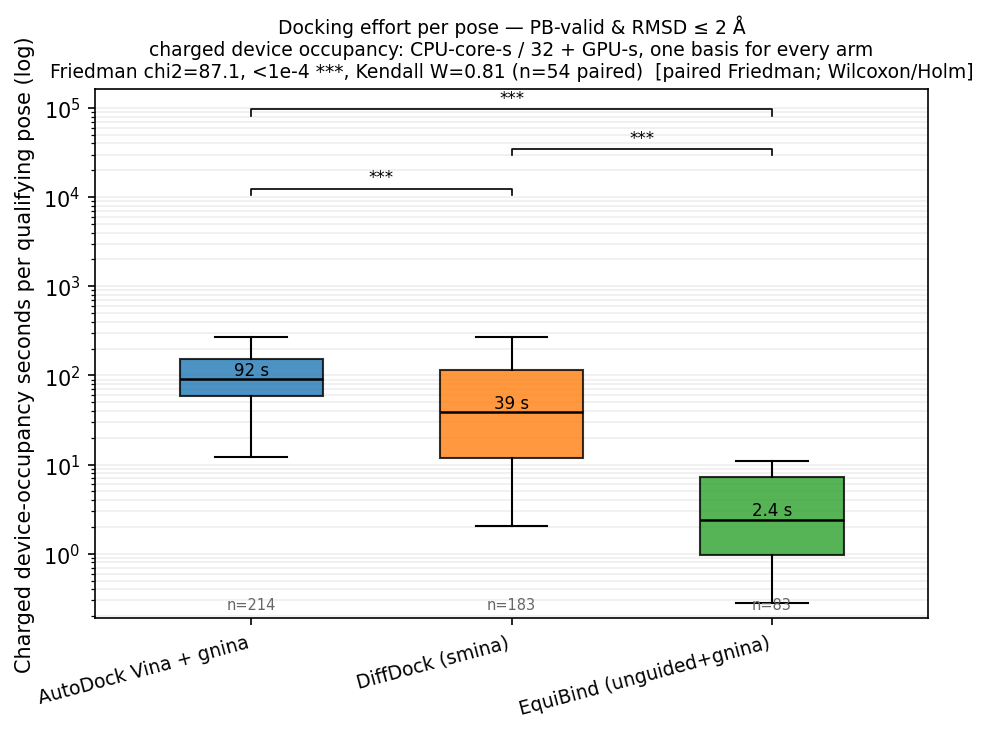
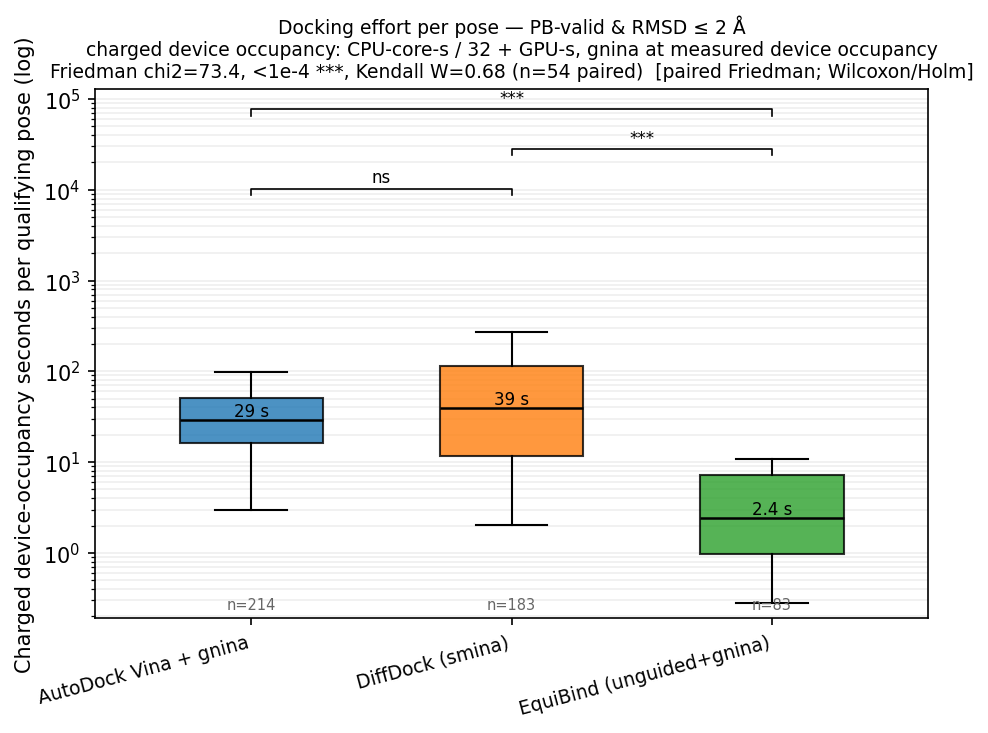
Cost basis (C1): regenerate the effort trees at measured occupancy; pin the headline median
Steps 2-4 and 7a of the correction. Both canonical effort trees under
posebusters_results/benchmark_matched_equibind/ (untracked) were regenerated
with --autodock-gnina-accounting device-occupancy using the documented stage
commands; outputs are byte-identical to an independent rehearsal run (23/23
each), exactly 18 of 23 files moved in the charged tree and 11 of 23 in the
elapsed tree against the pre-change backup, and the wall-clock panels other
than the per-complex distribution are unchanged. Figures 15 (image24) and 16
(image25) are the regenerated panels; image25 remains identical in both
trees, as the resource panels do not depend on --basis.

thesis_expected_values.yaml: Table 6 AutoDock row 1,233.3 / 83.6 -> 1,408.9 /
5.8 CPU-core-s and GPU-s per qualifying pose; Table 10 AutoDock row 6.02 /
4.12 / 60.73 -> 2.45 / 0.29 / 69.38 per generated pose; footnote 151.42 ->
172.99 CPU-core-h (search plus 21.57 h of gnina host CPU), 10.27 -> 0.71
GPU-h, charged 15.00 -> 6.12 h, GPU-only rescoring share 68.5 -> 11.6%. The
derived key autodock_search_wall_h is renamed autodock_cpu_charged_h, since
cpu_core_h / 32 is now 4.73 h of search plus 0.67 h of gnina host CPU. New
block table_6_medians pins the charged median and IQR per tool and the paired
Friedman/Holm verdict Figure 15 prints (chi2 73.4, W 0.68, n 54, AutoDock vs
DiffDock Holm p 0.907): the headline number of Table 6 was asserted nowhere
before, so a regeneration that moved it would have passed silently.
[…]

diff --git a/Scripts/Analysis/thesis_assertions.py b/Scripts/Analysis/thesis_assertions.py
@@ -32,6 +32,7 @@ confidence of its own.
 from __future__ import annotations
 
 import hashlib
+import json
 import sys
 from dataclasses import dataclass, field
 from pathlib import Path
@@ -401,6 +402,51 @@ def check_table_6(spec: dict, rep: Report, verbose: bool = False) -> None:
 # =============================================================================
 # Table 8
 # =============================================================================
+
+def check_table_6_medians(spec: dict, rep: Report, verbose: bool = False) -> None:
+    """Table 6's headline column and Figure 15's paired block, from the stats sidecar.
+
+    check_table_6 pins the resource columns read from effort_summary.csv; the charged
+    median/IQR and the paired Friedman/Holm verdict live in effort_by_quality_stats.json
+    and were asserted nowhere before 2026-09-11.
+    """
+    t = spec.get("table_6_medians")
+    if not t:
+        return
+    p = ROOT / t["input"]
+    if not p.exists():
+        rep.add("table_6_medians", "stats sidecar present", "missing", False, t["source"])
+        return
+    tier = json.loads(p.read_text())["tiers"][t["tier"]]
+    nbad = 0
+    for method, (w_med, w_q1, w_q3) in t["rows"].items():
+        pm = tier["per_method"][method]
+        for key, want in (("median_s", w_med), ("q1_s", w_q1), ("q3_s", w_q3)):
+            got = round(float(pm[key]), 1)
+            ok = _close(got, want, 0.05)
+            nbad += not ok
+            rep.add(f"table_6_medians[{method}].{key}", want, got, ok, t["source"])
+    pr = t.get("paired", {}) or {}
+    om = tier["omnibus"]
+    checks = {"n": (int(tier["n_paired"]), pr.get("n")),
+              "chi2": (round(float(om["chi2"]), 1), pr.get("chi2")),
+              "kendall_w": (round(float(om["kendall_w"]), 2), pr.get("kendall_w"))}
+    ad_dd = [x for x in tier["pairwise"]
+             if str(x["a"]).startswith("AutoDock") and str(x["b"]).startswith("DiffDock")]
+    if ad_dd and "holm_autodock_vs_diffdock" in pr:
+        checks["holm_autodock_vs_diffdock"] = (round(float(ad_dd[0]["p_holm"]), 3),
+                                              pr["holm_autodock_vs_diffdock"])
+    for k, (got, want) in checks.items():
+        if want is None:
+            continue
+        tol = 0.05 if k == "chi2" else 0.005
+        ok = (got == want) if isinstance(want, int) else _close(got, want, tol)
+        nbad += not ok
+        rep.add(f"table_6_medians[paired.{k}]", want, got, ok, t["source"])
+    if verbose:
+        print(f"  Table 6 medians / Figure 15 paired block             "
+              f"{'ok' if not nbad else f'{nbad} DIFFER'}")
+
 
 def check_table_8(spec: dict, rep: Report, verbose: bool = False) -> None:
     """The exhaustiveness ladder, on the validity-aware near-native gate.
@@ -935,6 +981,7 @@ def run_all(verbose: bool = False) -> Report:
     check_table_4(spec, rep, verbose)
     check_table_5(spec, rep, verbose)
     check_table_6(spec, rep, verbose)
+    check_table_6_medians(spec, rep, verbose)
     check_table_8(spec, rep, verbose)
     check_table_9(spec, rep, verbose)
     check_table_10(spec, rep, verbose)
@@ -1112,7 +1159,7 @@ def check_table_10(spec: dict, rep: Report, verbose: bool = False) -> None:
         "autodock_poses_generated": int(ad["poses_generated"]),
         "autodock_cpu_core_h": round(float(ad["total_cpu_core_h"]), 2),
         "autodock_gpu_h": round(float(ad["total_gpu_h"]), 2),
-        "autodock_search_wall_h": round(search_h, 2),
+        "autodock_cpu_charged_h": round(search_h, 2),
         "autodock_charged_h": round(charged_h, 2),
         "autodock_rescoring_share_pct": round(100 * float(ad["total_gpu_h"]) / charged_h, 1),
         "equibind_full_run_wall_h": round(float(df.loc["equibind", "total_wall_full_h"]), 2),
